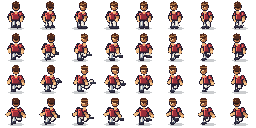
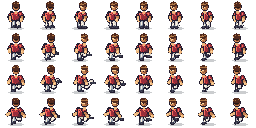
feat(oronzo-agent-01): refine indexed sprites and add 22-player landscape QA demo

diff --git a/oronzo/assets/players/match-22-demo.html b/oronzo/assets/players/match-22-demo.html
@@ -1,0 +1,127 @@
+<!doctype html>
+<html lang="it"><head><meta charset="utf-8"><meta name="viewport" content="width=device-width,initial-scale=1,viewport-fit=cover">
+<title>ORONZO · 22 Sprite QA · 01 R02</title>
+<style>
+:root { color-scheme: dark; font-family: system-ui, Arial, sans-serif; }
+*{box-sizing:border-box}
+html,body{margin:0;width:100%;height:100%;background:#081221;overflow:hidden}
+body{display:flex;align-items:center;justify-content:center}
+#screen{position:relative;aspect-ratio:16/9;width:min(100vw,177.77778dvh);height:min(100dvh,56.25vw);max-height:100dvh;overflow:hidden;background:#092f28;border:1px solid #2f5064}
+canvas{width:100%;height:100%;display:block;image-rendering:pixelated}
+#panel{position:absolute;bottom:0;left:0;right:0;height:10%;display:flex;align-items:center;justify-content:center;gap:.6rem;padding:2px 8px;background:rgba(9,22,43,.96);border-top:2px solid #738da1}
+button,select{font:700 clamp(10px,1.7vw,15px) system-ui,sans-serif;color:#f7ebce;background:#1e3451;border:1px solid #7b93ac;min-height:32px;padding:4px 10px;border-radius:2px}
+#state{position:absolute;right:1.4%;top:2%;font-size:clamp(9px,1.3vw,12px);font-weight:700;color:#d5f1e0;text-shadow:1px 1px #09201a;pointer-events:none}
+@media (orientation:portrait){body:before{content:"ORONZO · RUOTA IL TELEFONO";position:absolute;top:8px;left:8px;color:#ffe092;font:700 13px monospace}}
+</style></head><body>
+<div id="screen">
+<canvas id="pitch" width="640" height="360" aria-label="Campo intero, 22 giocatori pixel art, due squadre distinte, animazioni e palla"></canvas>
+<span id="state" aria-live="polite">CARICAMENTO SPRITE...</span>
+<div id="panel">
+ <select id="action" aria-label="Animazione da verificare">
+  <option value="run">CORSA</option><option value="idle">FERMO</option>
+  <option value="kick">TIRO</option><option value="tackle">CONTRASTO</option>
+  <option value="keeper">PORTIERE</option>
+ </select>
+ <select id="facing" aria-label="Direzioni">
+  <option value="auto">DIR. AUTO</option>
+  <option value="N">N</option><option value="NE">NE</option><option value="E">E</option><option value="SE">SE</option>
+  <option value="S">S</option><option value="SW">SW</option><option value="W">W</option><option value="NW">NW</option>
+ </select>
+ <button id="pause">PAUSA</button><button id="reset">RESET</button>
+</div>
+</div>
+<script src="palette.js"></script><script src="team-looks.js"></script>
+<script>
+"use strict";
+(function(){
+ const canvas=document.getElementById("pitch"),ctx=canvas.getContext("2d",{alpha:false});
+ const status=document.getElementById("state"),actionSelect=document.getElementById("action");
+ const faceSelect=document.getElementById("facing"),pause=document.getElementById("pause");
+ const teamLooks=window.OronzoTeamLooks,players=teamLooks.roster();
+ const baseY=[181,80,144,219,283,85,149,215,279,139,225];
+ const homes=[52,142,142,142,142,235,235,235,235,302,302];
+ const aways=[588,498,498,498,498,407,407,407,407,338,338];
+ const values={run:9,idle:3,kick:8,tackle:7,keeper:7};
+ let atlasById=new Map(),ready=false,error="",playing=true,last=0,elapsed=0,chosen="run";
+ function box(x,y,w,h,fill){ctx.fillStyle=fill;ctx.fillRect(Math.round(x),Math.round(y),Math.round(w),Math.round(h))}
+ function pitch(){
+  box(0,0,640,360,"#101b34");
+  box(0,0,640,34,"#172947");box(0,31,640,3,"#6887ae");
+  ctx.fillStyle="#fff1ca";ctx.font="bold 14px monospace";ctx.fillText("ORONZO 1979  /  SPRITE QA",11,23);
+  ctx.font="bold 12px monospace";ctx.fillText("11   -   11",327,22);
+  box(9,37,622,283,"#173b32");
+  for(let i=0;i<12;i++)box(15+i*51,41,51,274,i%2?"#2e854b":"#2a7945");
+  ctx.strokeStyle="#e9f0dc";ctx.lineWidth=2;ctx.strokeRect(19,46,602,266);
+  ctx.beginPath();ctx.moveTo(320,46);ctx.lineTo(320,312);ctx.stroke();
+  ctx.beginPath();ctx.arc(320,179,42,0,2*Math.PI);ctx.stroke();
+  ctx.strokeRect(19,109,93,140);ctx.strokeRect(528,109,93,140);
+  ctx.strokeRect(19,144,38,69);ctx.strokeRect(583,144,38,69);
+  ctx.beginPath();ctx.arc(320,179,2,0,2*Math.PI);ctx.fillStyle="#f2eedc";ctx.fill();
+  box(11,162,9,32,"#e4efea");box(620,162,9,32,"#e4efea");
+  ctx.strokeStyle="#d2dfd2";ctx.lineWidth=1;ctx.strokeRect(11,162,9,32);ctx.strokeRect(620,162,9,32);
+ }
+ function position(p,t){
+  const home=p.team==="home",i=p.index;
+  let x=(home?homes:aways)[i],y=home?baseY[i]:(360-baseY[i]);
+  if(i===0)return {x,y:181};
+  const wave=t/340+i*.92;
+  // deterministic *visual* sway for sprite QA, not tactical movement or match physics
+  x+=(home?1:-1)*Math.sin(wave)*Math.min(7,3+(i%3)*1.5);
+  y+=Math.cos(wave*.83)*Math.min(5,2+i%3);
+  return {x,y};
+ }
+ function direction(p,t){
+  const override=faceSelect.value;if(override!=="auto")return override;
+  const sign=p.team==="home"?1:-1;
+  if(p.index===0)return sign>0?"E":"W";
+  const s=Math.sin(t/430+p.index*1.31);
+  return sign>0?(s>0.4?"SE":s<-.4?"NE":"E"):(s>0.4?"SW":s<-.4?"NW":"W");
+ }
+ function draw(t){
+  pitch();
+  if(ready){
+   const roster=players.map(p=>({p,pos:position(p,t)})).sort((a,b)=>a.pos.y-b.pos.y);
+   for(const {p,pos} of roster){
+     const act=p.keeper?"keeper":chosen,cache=atlasById.get(p.id);
+     const atlas=cache&&cache[act];
+     if(atlas){
+       const frame=Math.floor(t/1000*values[act]+p.index*.27)%4;
+       window.OronzoPalette.draw(ctx,atlas,direction(p,t),frame,pos.x,pos.y,1);
+     }
+   }
+   // Ball drawn as small test motif at center. Engine owns actual ball coordinates.
+   box(317+Math.round(Math.sin(t/640)*9),176+Math.round(Math.cos(t/880)*5),5,5,"#f5ead5");
+   box(319+Math.round(Math.sin(t/640)*9),178+Math.round(Math.cos(t/880)*5),2,2,"#25263a");
+  }
+  ctx.fillStyle="#d7e9da";ctx.font="bold 10px monospace";
+  ctx.fillText("22 SPRITE   2 SQUADRE   MATERIALI RICOLORABILI",12,334);
+  ctx.textAlign="right";ctx.fillText("DEMO GRAFICA · NON SIMULAZIONE",627,334);ctx.textAlign="left";
+  if(!ready){ctx.fillStyle="#f7c279";ctx.font="bold 15px monospace";ctx.fillText(error||"PREPARAZIONE 22 SPRITE...",157,188)}
+ }
+ async function prepare(){
+  ready=false;error="";status.textContent="CARICAMENTO";
+  const actions=["idle","run","kick","tackle","keeper"];
+  try{
+   const pairs=Object.fromEntries(await Promise.all(actions.map(async action=>[action,await OronzoPalette.load(action,"")])));
+   atlasById=new Map();
+   for(const p of players){
+     const map={};
+     for(const action of [p.keeper?"keeper":"idle",...(p.keeper?[]:["run","kick","tackle","keeper"])]){
+       map[action]=OronzoPalette.recolorAtlas(pairs[action],action,p.appearance);
+     }
+     atlasById.set(p.id,map);
+   }
+   ready=true;status.textContent="22/22 ASSET PRONTI";
+  }catch(e){error="FALLBACK: ASSET NON CARICATI";status.textContent="ERRORE ASSET";console.error(e)}
+ }
+ function loop(now){
+  const dt=last?Math.min(0.06,(now-last)/1000):0;last=now;if(playing)elapsed+=dt;
+  draw(elapsed*1000);requestAnimationFrame(loop);
+ }
+ actionSelect.addEventListener("change",()=>{chosen=actionSelect.value});
+ pause.addEventListener("click",()=>{playing=!playing;pause.textContent=playing?"PAUSA":"RIPRENDI"});
+ document.getElementById("reset").addEventListener("click",()=>{elapsed=0;chosen="run";actionSelect.value="run";faceSelect.value="auto"});
+ window.__ORONZO_22_QA__={players,positions:(t=0)=>players.map(p=>({...p,position:position(p,t)})),get ready(){return ready},get error(){return error}};
+ prepare();requestAnimationFrame(loop);
+})();
+</script></body></html>

diff --git a/oronzo/assets/players/sprite-factory.js b/oronzo/assets/players/sprite-factory.js
@@ -1,3 +1,4 @@
+/** R02: targeted facial, kit seam, socks and boot readability refinement. Original 8x4 indexed atlas contract preserved. */
 function buildOronzoPlayers(){
  const W=256,H=128,D=['N','NE','E','SE','S','SW','W','NW'],dirs=[[0,-1],[.71,-.71],[1,0],[.71,.71],[0,1],[-.71,.71],[-1,0],[-.71,-.71]];
  const mat=['skin','hair','shirt','shorts','socks','boots','outline','gloves','shadow'];
@@ -14,9 +15,9 @@ function buildOronzoPlayers(){
  function poly(c,P,m,s=1){const xs=P.map(p=>p[0]),ys=P.map(p=>p[1]);for(let y=Math.max(0,Math.floor(Math.min(...ys)));y<Math.min(32,Math.ceil(Math.max(...ys)));y++)for(let x=Math.max(0,Math.floor(Math.min(...xs)));x<Math.min(32,Math.ceil(Math.max(...xs)));x++){let hit=false;for(let i=0,j=P.length-1;i<P.length;j=i++){const a=P[i],b=P[j];if((a[1]>y+.5)!==(b[1]>y+.5)&&(x+.5<(b[0]-a[0])*(y+.5-a[1])/(b[1]-a[1])+a[0]))hit=!hit}if(hit)pix(c,x,y,m,s)}}
  function seg(c,a,b,w,m,s=1){let dx=b[0]-a[0],dy=b[1]-a[1],L=Math.hypot(dx,dy)||1,ox=-dy/L*w/2,oy=dx/L*w/2;poly(c,[[a[0]+ox,a[1]+oy],[b[0]+ox,b[1]+oy],[b[0]-ox,b[1]-oy],[a[0]-ox,a[1]-oy]],m,s);oval(c,a[0],a[1],w/2,w/2,m,s);oval(c,b[0],b[1],w/2,w/2,m,s)}
  function limb(c,a,b,w,m,s=1){seg(c,a,b,w+1.5,6,2);seg(c,a,b,w,m,s);if(w>2.8)seg(c,[a[0]-.4,a[1]-.4],[b[0]-.4,b[1]-.4],1,m,0)}
- function torso(c,x,y,prof,back,gk){let l=x-4.9*prof,r=x+4.9*prof;poly(c,[[l-1,y],[r+1,y],[r+.2,y+9],[l+.2,y+9]],6,2);poly(c,[[l,y+.6],[r,y+.6],[r-.8,y+8],[l+.8,y+8]],2,2);poly(c,[[l+.2,y+1],[l+2.1,y+.6],[l+1.5,y+7.5],[l+.7,y+7]],2,0);poly(c,[[r-2.1,y+1],[r-.3,y+1],[r-1,y+7],[r-2.5,y+8]],2,3);seg(c,[l+1,y+8],[r-1,y+8],1,2,3);seg(c,[x-1.7,y+.8],[x+1.7,y+.8],1,2,0);pix(c,l+1,y+2,2,3);pix(c,r-1,y+2,2,0);if(gk){seg(c,[l+1,y+4],[r-1,y+4],1,2,1);pix(c,r-2,y+7,2,0)}if(back)seg(c,[x-2.2,y+3],[x+2.2,y+3],1,2,1)}
- function head(c,x,y,dx,back){oval(c,x,y,4,4.7,6,2);oval(c,x,y+.1,3.2,3.8,0,2);oval(c,x-1,y-1.2,2.5,2.6,0,0);oval(c,x+2,y+.4,1.25,2.6,0,3);oval(c,x-.2,y-2.25,3.7,2.6,1,2);seg(c,[x-3,y-2.1],[x+2.7,y-2.4],1,1,0);if(back){oval(c,x,y-.6,3.1,3,1,2);seg(c,[x-2,y+1],[x+2,y+1],1,1,3)}else{if(Math.abs(dx)<.5){pix(c,x-1,y+.8,6,2);pix(c,x+1.6,y+.8,6,2);pix(c,x,y+2.4,0,3)}else{pix(c,x+dx*2.2,y+.4,6,2);pix(c,x+dx*3,y+1.3,0,0);pix(c,x+dx,y+2.4,0,3)}}pix(c,x-2,y-3,1,0)}
- function foot(c,x,y,dx,dy){x=Math.max(2,Math.min(29,x+dx*.9));y=Math.max(2,Math.min(28.1,y));seg(c,[x-1.4,y],[x+1.4+dx,y+dy*.55],2.9,6,2);seg(c,[x-1.2,y-.3],[x+1+dx,y-.5+dy*.55],2,5,1);pix(c,x-1.1,y-.9,5,0)}
+ function torso(c,x,y,prof,back,gk){let l=x-4.9*prof,r=x+4.9*prof;poly(c,[[l-1,y],[r+1,y],[r+.2,y+9],[l+.2,y+9]],6,2);poly(c,[[l,y+.6],[r,y+.6],[r-.8,y+8],[l+.8,y+8]],2,2);poly(c,[[l+.2,y+1],[l+2.1,y+.6],[l+1.5,y+7.5],[l+.7,y+7]],2,0);poly(c,[[r-2.1,y+1],[r-.3,y+1],[r-1,y+7],[r-2.5,y+8]],2,3);seg(c,[l+1,y+8],[r-1,y+8],1,2,3);seg(c,[x-1.7,y+.8],[x+1.7,y+.8],1,2,0);pix(c,l+1,y+2,2,3);pix(c,r-1,y+2,2,0); /* shirt seams, collar and folds remain in shirt material */ seg(c,[x-1.2,y+1.5],[x+.4,y+3.3],.75,2,0);pix(c,l+2,y+6.5,2,1);pix(c,r-2,y+6.5,2,3);pix(c,x-1,y+7,2,1);if(gk){seg(c,[l+1,y+4],[r-1,y+4],1,2,1);pix(c,r-2,y+7,2,0)}if(back)seg(c,[x-2.2,y+3],[x+2.2,y+3],1,2,1)}
+ function head(c,x,y,dx,back){oval(c,x,y,4,4.7,6,2);oval(c,x,y+.1,3.2,3.8,0,2);oval(c,x-1,y-1.2,2.5,2.6,0,0);oval(c,x+2,y+.4,1.25,2.6,0,3);oval(c,x-.2,y-2.25,3.7,2.6,1,2);seg(c,[x-3,y-2.1],[x+2.7,y-2.4],1,1,0);if(back){oval(c,x,y-.6,3.1,3,1,2);seg(c,[x-2,y+1],[x+2,y+1],1,1,3)}else{if(Math.abs(dx)<.5){pix(c,x-1,y+.8,6,2);pix(c,x+1.6,y+.8,6,2);pix(c,x,y+2.4,0,3)}else{pix(c,x+dx*2.2,y+.4,6,2);pix(c,x+dx*3,y+1.3,0,0);pix(c,x+dx,y+2.4,0,3)}}pix(c,x-2,y-3,1,0);/* highlight in hairline */pix(c,x+1,y-3.6,1,0);/* ears and nose silhouette */if(Math.abs(dx)>.5&&!back)pix(c,x+dx*3.2,y+1,0,1)}
+ function foot(c,x,y,dx,dy){x=Math.max(2,Math.min(29,x+dx*.9));y=Math.max(2,Math.min(28.1,y));seg(c,[x-1.4,y],[x+1.4+dx,y+dy*.55],2.9,6,2);seg(c,[x-1.2,y-.3],[x+1+dx,y-.5+dy*.55],2,5,1);pix(c,x-1.1,y-.9,5,0);pix(c,x+dx,y-.4,5,0)}
  function draw(anim,di,fi){
   const c=new Uint8Array(1024),[dx,dy]=dirs[di],back=di<=1||di>=7,prof=1-.32*Math.abs(dx),wave=[0,1,0,-1][fi],run=anim==='run',kick=anim==='kick',tackle=anim==='tackle',gk=anim==='keeper';
   const bob=run?[0,-.7,0,-1.1][fi]:gk?[0,-1,-2,-1][fi]:[0,0,-.25,.25][fi];
@@ -30,7 +31,7 @@ function buildOronzoPlayers(){
   if(kick&&fi>0)feet[1]=[bx+sep+dx*[0,2.5,6.5,3.8][fi]+2.4,26-[0,3,7,4][fi]+dy*1.4];
   if(tackle&&fi>0){feet[0]=[bx-4.8-(dx||1)*(fi===1?0:3.4),26.5];feet[1]=[bx+3.6+(dx||1)*3.2,25.2]}
   if(gk){feet[0][0]-=1.3;feet[1][0]+=1.3;if(fi>1){feet[0][0]-=3;feet[1][0]-=1.5;feet[0][1]-=2;feet[1][1]-=3}}
-  for(let k=0;k<2;k++){const sign=k===0?-1:1,hip=[bx+sign*sep*.7,hy],kn=[(hip[0]+feet[k][0])*.5-sign*.35,22.7+bob*.6+(run?sign*wave*.7:0)],ank=[feet[k][0],feet[k][1]-1.5];limb(c,hip,kn,4.6,3,k===0?2:1);limb(c,kn,ank,3.4,4,k===0?2:1);seg(c,[kn[0]-.9,kn[1]+1.3],[ank[0],ank[1]-.6],.9,4,0);foot(c,feet[k][0],feet[k][1],dx,dy)}
+  for(let k=0;k<2;k++){const sign=k===0?-1:1,hip=[bx+sign*sep*.7,hy],kn=[(hip[0]+feet[k][0])*.5-sign*.35,22.7+bob*.6+(run?sign*wave*.7:0)],ank=[feet[k][0],feet[k][1]-1.5];limb(c,hip,kn,4.6,3,k===0?2:1);limb(c,kn,ank,3.4,4,k===0?2:1);seg(c,[kn[0]-.9,kn[1]+1.3],[ank[0],ank[1]-.6],.9,4,0);/* sock top band, 1px */pix(c,kn[0],kn[1]+2,4,3);foot(c,feet[k][0],feet[k][1],dx,dy)}
   const arms=[[[bx-4.1*prof,sy+1.5],[bx-6.2*prof,sy+5],[bx-5.2*prof,sy+8]],[[bx+4.1*prof,sy+1.5],[bx+6.2*prof,sy+5],[bx+5.2*prof,sy+8]]];
   if(run)for(let k=0;k<2;k++){let sign=k===0?-1:1;arms[k][1][0]+=sign*wave*1.1;arms[k][2][1]+=sign*wave*2;arms[k][2][0]-=dx*wave*2}
   if(!run&&!kick&&!tackle&&!gk&&fi===1){arms[0][2][1]-=2;arms[1][2][0]+=1.5}

diff --git a/oronzo/assets/players/team-looks.js b/oronzo/assets/players/team-looks.js
@@ -1,0 +1,44 @@
+/* ORONZO / AGENT 01 R02 — stable, material-based kits for full-field QA.
+ * Pure appearance catalogue: no player IDs, no simulation or club identity.
+ * Browser: window.OronzoTeamLooks; Node CommonJS: module.exports.
+ */
+(function (root) {
+  "use strict";
+  const SKINS=["#E6B485","#BD8058","#F0C998","#98633F","#D59A70","#B87451","#A87552","#E2AF7A"];
+  const HAIR=["#292022","#6D422B","#2C252C","#9C6737","#49271D","#C49259","#201D20","#594131"];
+  const KITS=Object.freeze({
+    home:Object.freeze({
+      shirt:"#F4F0DE",shirtB:"#234BB1",pattern:"vertical",
+      shorts:"#27498A",socks:"#F4F2DF",boots:"#1D2334",gloves:"#E8DFB5"
+    }),
+    away:Object.freeze({
+      shirt:"#B63246",shirtB:"#742132",pattern:"solid",
+      shorts:"#EEE7D4",socks:"#B63246",boots:"#1A2029",gloves:"#E8DFB5"
+    }),
+    homeKeeper:Object.freeze({
+      shirt:"#EAB83B",shirtB:"#EAB83B",pattern:"solid",
+      shorts:"#2C3742",socks:"#EAB83B",boots:"#202836",gloves:"#F2E6CE"
+    }),
+    awayKeeper:Object.freeze({
+      shirt:"#35959B",shirtB:"#35959B",pattern:"solid",
+      shorts:"#223A55",socks:"#B4F0E1",boots:"#17263C",gloves:"#F7EFE0"
+    })
+  });
+  function appearance(team,index,keeper=false){
+    if(team!=="home"&&team!=="away")throw new TypeError("team must be home or away");
+    if(!Number.isInteger(index)||index<0||index>10)throw new RangeError("index must be 0..10");
+    const slot=(index*5+(team==="away"?3:0))%SKINS.length;
+    const hairSlot=(index*3+(team==="away"?5:0))%HAIR.length;
+    const kit=keeper?(team==="home"?KITS.homeKeeper:KITS.awayKeeper):KITS[team];
+    return {...kit,skin:SKINS[slot],hair:HAIR[hairSlot]};
+  }
+  function roster() {
+    return ["home","away"].flatMap(team=>Array.from({length:11},(_,index)=>({
+      id:(team==="home"?"H":"A")+index,team,index,keeper:index===0,
+      appearance:appearance(team,index,index===0)
+    })));
+  }
+  const api={KITS,SKINS,HAIR,appearance,roster};
+  root.OronzoTeamLooks=api;
+  if(typeof module!=="undefined"&&module.exports)module.exports=api;
+})(typeof window!=="undefined"?window:globalThis);

diff --git a/oronzo/assets/players/integration-notes.md b/oronzo/assets/players/integration-notes.md
@@ -34,3 +34,31 @@ The back number must be a separate overlay, never painted onto atlas textures.
 - Keeper has glove material 7; game can set `gloves` independently of kit.
 - Torso pattern UV is computed procedurally from action/direction/frame, not a separate UV bitmap.
 - Ref issue explicitly assigns merge/integration to the orchestrator; no main game files were changed.
+
+
+## Agente 01 — R02, 1979 / QA FULL CAMPO 22 giocatori
+
+- Nuovo branch: `agent/oronzo-players-r02`, partenza da `main` **dopo merge di PR #6**. PR di questo ciclo da linkare nel REPORT.
+- I 10 PNG dei cinque atlas e delle cinque maschere sono rigenerati con `sprite-factory.js`: micro-rifiniture di viso/capelli, cuciture/colletto, fascia dei calzettoni, tacche delle scarpe. **Nessuna variazione a geometria, FPS, ordine direzioni, pivot (16,29), dimensioni 256×128, maschera indexed o ID materiale**.
+- `manifest.json` conserva le vecchie API/azioni `idle/run/kick/tackle/keeper`; `version=1.1.0`, `artRevision=R02-1979-fullfield`, nuovi metadati di sola annotazione `visualQA`. Lettori v1 possono ignorarli.
+- `team-looks.js` è un **catalogo visuale opzionale**, non dati della carriera. `OronzoTeamLooks.appearance('home'|'away', index, keeper)` restituisce i colori `skin/hair/shirt/shirtB/shorts/socks/boots/gloves` e il `pattern`. `roster()` crea 22 look per la demo; l'ID è solo demo. In gioco reale, 05/08 devono fornire apparenza persistente basata sull'identità canonica del calciatore (mai ricrearla al cambio formazione).
+- `match-22-demo.html` carica direttamente `palette.js` e `team-looks.js`, usa i cinque atlanti, mostra sempre **11 contro 11**, quattro palette (due squadre e due portieri), otto direzioni e cambi di animazione. **È solo demo visuale**: nessun gol, tattica, movimento del motore o camera televisiva implementato. Per provarla servire la directory via HTTP locale: `python3 -m http.server 8000` dalla root, poi `http://localhost:8000/oronzo/assets/players/match-22-demo.html` in landscape.
+- Le prove `match-22-preview-640.png` (640×360) e `match-22-preview-844x390.png` (844×390, letterbox 16:9 e nearest-neighbor) sono **render offline con i veri indici degli atlas**, NON screenshot del browser. La seconda vista preserva il campo intero con bande laterali, senza distorsione.
+- `qa-atlas.test.mjs` è eseguibile con `node --test oronzo/assets/players/qa-atlas.test.mjs`. Senza dipendenze esterne: confronta PNG byte-for-byte con il generatore, maschere, frame, materiali e 22 look. I test V8 del REPORT sono realmente eseguiti in questa sessione; **il test Node/Chromium resta da riprodurre da parte dell'integratore se non esplicitamente registrato come eseguito**.
+
+### Hand-off concreto ad Agente 05 (renderer)
+
+La PR #15 ha creato `oronzo/systems/match-view/asset-adapter.js`, che carica `../../assets/players/manifest.json` e ricolora l'atlante via maschera RGB materiale+shade. Lo schema resta compatibile. Per i test con 22 giocatori:
+```js
+// Esempio per asset-adapter.drawPlayer (solo call-site di Agente 05; non modificato qui)
+const kit = OronzoTeamLooks.appearance(team, rosterIndex, isKeeper);
+adapter.drawPlayer(ctx, {
+  x: screenX, y: screenY, action: 'run', direction: 'SE', frame: 1,
+  appearance: kit, team, isKeeper
+});
+```
+In runtime definitivo, `appearance` deve provenire da PlayerV1 persistente/asset team canonici; `team-looks.js` non è sorgente di verità della carriera. Agente 05 scala e proietta le coordinate dallo snapshot: Agente 01 **non cambia** le posizioni del motore né `match-view.js`. Il fallback del renderer resta valido quando PNG/mask non caricano; evitare di rimpiazzare uno sprite finito con segnaposto a caricamento riuscito. Numeri di maglia eventualmente come overlay a runtime.
+
+### Hand-off ad Agente 10 (QA/gate)
+
+Verificare **a schermo** le due squadre e i portieri in **640×360** e **844×390**; contestualizzare scala 1:1 su dispositivo reale, colori contro sfondo verde, direzioni e fotogrammi, nessun ritaglio, nessuna sovrapposizione sistematica. Catturare screenshot reali del browser prima del gate: le due preview renderizzate non sono equivalenti. La **camera televisiva** appartiene esclusivamente ad Agente 05.
